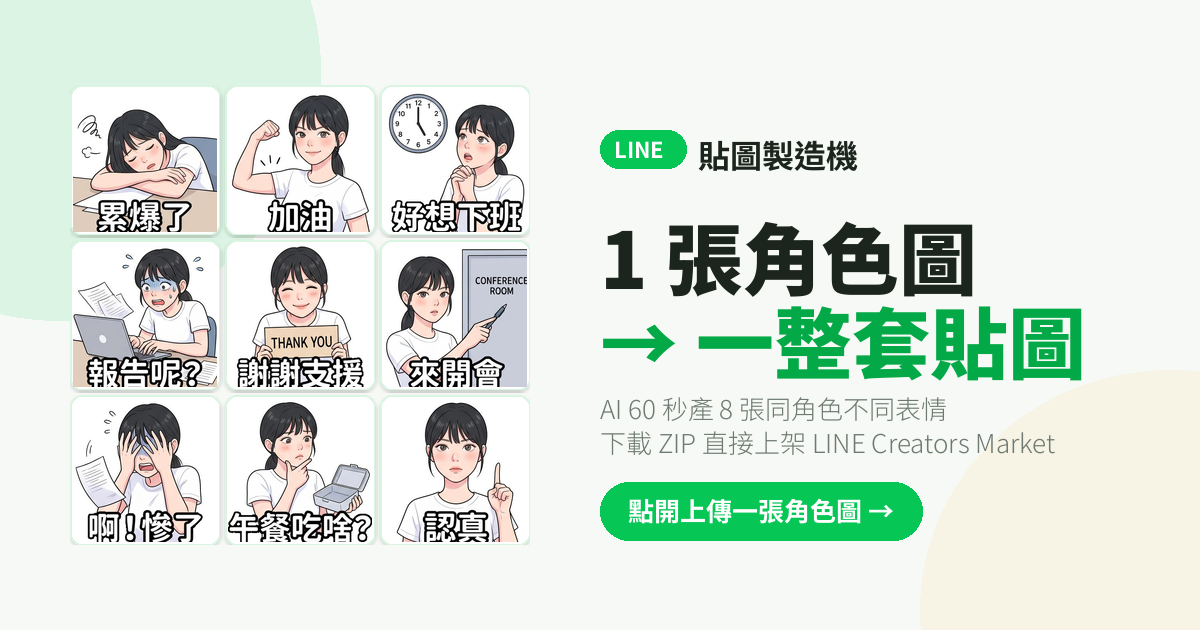
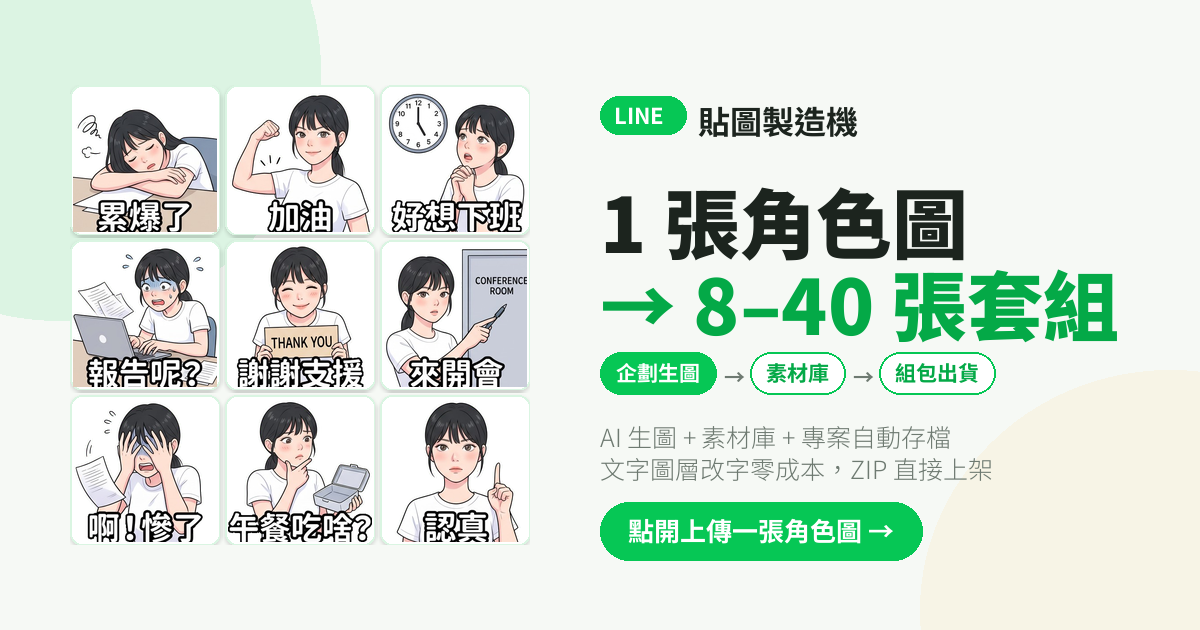
fix(og): OG 圖改講工作室——8–40 張套組 + 三分頁流程列 (#69)
原本的 OG 停在「1 張角色圖 → 一整套貼圖」,只講得出最初的 8 張版本,
現在產品已經是工作室(三分頁、專案自動存檔、文字圖層、素材庫),
分享出去的第一眼跟實際能力對不上。

- 主標改「→ 8–40 張套組」,講規模
- 加三分頁流程列:企劃生圖 → 素材庫 → 組包出貨(即 app 真實分頁)
- 副標改講工作室能力:素材庫/專案自動存檔/改字零成本
- 產品名維持「貼圖製造機」,跟 title 與 app header 一致

Changed region(s): [[0.4933, 0.3016, 0.9558, 0.9048], [0.4933, 0.1508, 0.74, 0.2714]]

diff --git a/make_og.py b/make_og.py
@@ -192,26 +192,48 @@ def main() -> None:
     # Text column
     d = ImageDraw.Draw(canvas)
     text_x = GRID_X + GRID_SIZE + 70
-    title_font = ImageFont.truetype(FONT_BLACK, 78)
-    tag_font = ImageFont.truetype(FONT_REG, 26)
+    title_font = ImageFont.truetype(FONT_BLACK, 76)
+    tag_font = ImageFont.truetype(FONT_REG, 25)
     cta_font = ImageFont.truetype(FONT_BOLD, 26)
     pill_font = ImageFont.truetype(FONT_BOLD, 22)
+    step_font = ImageFont.truetype(FONT_BOLD, 21)
 
     # LINE pill mark
     pill_w, pill_h = 86, 38
-    d.rounded_rectangle((text_x, 130, text_x + pill_w, 130 + pill_h),
+    d.rounded_rectangle((text_x, 96, text_x + pill_w, 96 + pill_h),
                         radius=pill_h // 2, fill=LINE_GREEN)
-    d.text((text_x + 14, 132), "LINE", fill=(255, 255, 255), font=pill_font)
-    d.text((text_x + pill_w + 12, 130), "貼圖製造機",
+    d.text((text_x + 14, 98), "LINE", fill=(255, 255, 255), font=pill_font)
+    d.text((text_x + pill_w + 12, 96), "貼圖製造機",
            fill=TEXT, font=ImageFont.truetype(FONT_BOLD, 32))
 
     # Big title
-    d.text((text_x, 198), "1 張角色圖", fill=TEXT, font=title_font)
-    d.text((text_x, 282), "→ 一整套貼圖", fill=LINE_GREEN_DEEP, font=title_font)
+    d.text((text_x, 164), "1 張角色圖", fill=TEXT, font=title_font)
+    d.text((text_x, 246), "→ 8–40 張套組", fill=LINE_GREEN_DEEP, font=title_font)
+
+    # Studio workflow steps — the three tabs of the app
+    step_y = 352
+    step_h = 42
+    x = text_x
+    for i, label in enumerate(["企劃生圖", "素材庫", "組包出貨"]):
+        bb = d.textbbox((0, 0), label, font=step_font)
+        lw = bb[2] - bb[0]
+        sw = lw + 32
+        filled = i == 0
+        d.rounded_rectangle((x, step_y, x + sw, step_y + step_h),
+                            radius=step_h // 2,
+                            fill=LINE_GREEN if filled else (255, 255, 255),
+                            outline=LINE_GREEN, width=2)
+        d.text((x + 16 - bb[0], step_y + (step_h - (bb[3] - bb[1])) // 2 - bb[1]),
+               label, fill=(255, 255, 255) if filled else LINE_GREEN_DEEP,
+               font=step_font)
+        x += sw
+        if i < 2:
+            d.text((x + 8, step_y + 8), "→", fill=MUTED, font=step_font)
+            x += 34
 
     # Tagline
-    d.text((text_x, 388), "AI 60 秒產 8 張同角色不同表情", fill=MUTED, font=tag_font)
-    d.text((text_x, 422), "下載 ZIP 直接上架 LINE Creators Market", fill=MUTED, font=tag_font)
+    d.text((text_x, 418), "AI 生圖 + 素材庫 + 專案自動存檔", fill=MUTED, font=tag_font)
+    d.text((text_x, 450), "文字圖層改字零成本，ZIP 直接上架", fill=MUTED, font=tag_font)
 
     # CTA pill
     cta_text = "點開上傳一張角色圖 →"
@@ -221,7 +243,7 @@ def main() -> None:
     pad_x, pad_y = 28, 16
     pw = text_w + pad_x * 2
     ph = text_h + pad_y * 2
-    py = 482
+    py = 502
     d.rounded_rectangle((text_x, py, text_x + pw, py + ph),
                         radius=ph // 2, fill=LINE_GREEN)
     d.text((text_x + pad_x - bbox[0], py + pad_y - bbox[1]),
